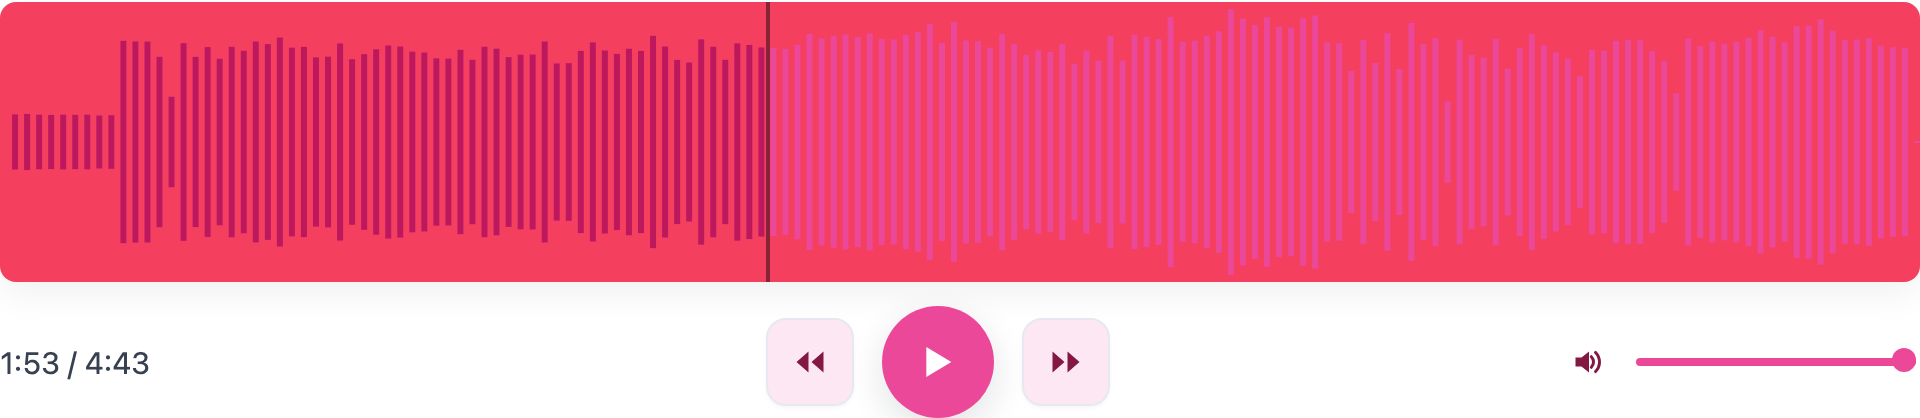
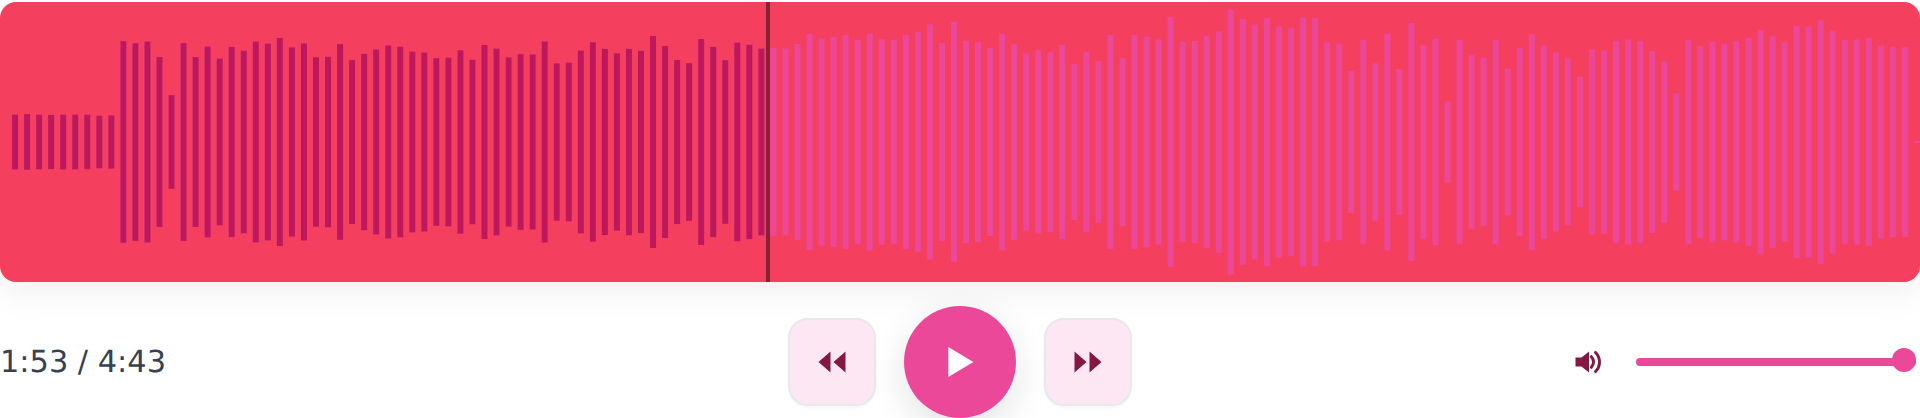
fix: center mobile playback controls and hide non-functional volume (#59)

Changed region(s): [[0.4062, 0.7153, 0.5938, 1.0], [0.0, 0.8397, 0.0938, 0.9019]]

diff --git a/e2e/mobile.spec.ts b/e2e/mobile.spec.ts
@@ -7,7 +7,9 @@ import { test, expect } from '@playwright/test';
  * and verify:
  *   - responsive layout at mobile breakpoints
  *   - touch seeking on the waveform canvas
- *   - collapsible volume control behaviour (hidden by default, shown on tap)
+ *   - playback controls are horizontally centered
+ *   - volume controls are hidden on touch-only devices (HTML5 audio volume
+ *     is read-only on iOS Safari, so the on-screen slider can't change it)
  */
 
 const MOBILE_VIEWPORT = { width: 375, height: 812 };
@@ -81,6 +83,57 @@ test.describe('Mobile layout and controls', () => {
 		const forward = page.getByRole('button', { name: /forward/i });
 		await expect(rewind).toBeVisible({ timeout: 10000 });
 		await expect(forward).toBeVisible({ timeout: 10000 });
+	});
+
+	test('play, rewind, forward buttons are horizontally centered', async ({
+		page,
+	}) => {
+		const controls = page.locator('.controls').first();
+		const center = page.locator('.controls .center').first();
+		await expect(controls).toBeVisible({ timeout: 10000 });
+
+		const controlsBox = await controls.boundingBox();
+		const centerBox = await center.boundingBox();
+		expect(controlsBox).toBeTruthy();
+		expect(centerBox).toBeTruthy();
+
+		// Midpoint of the .center group should sit within a few pixels of the
+		// midpoint of the full controls container — the grid layout guarantees
+		// this regardless of the time text or volume control widths.
+		const controlsMid = controlsBox!.x + controlsBox!.width / 2;
+		const centerMid = centerBox!.x + centerBox!.width / 2;
+		expect(Math.abs(centerMid - controlsMid)).toBeLessThanOrEqual(2);
+	});
+
+	test('center stays centered when the time string grows wider than 1fr', async ({
+		page,
+	}) => {
+		await expect(page.locator('.controls').first()).toBeVisible({
+			timeout: 10000,
+		});
+
+		// Force the time text to be wider than the natural 1fr share by bumping
+		// its font size. With plain `grid-template-columns: 1fr auto 1fr`, the
+		// fr tracks have an implicit content-based minimum, so an over-sized
+		// time string expands the left track and shifts the center group off
+		// the container midpoint. `minmax(0, 1fr)` + `min-width: 0` on the side
+		// items lets the track shrink below content size, keeping center
+		// mathematically centered.
+		await page.locator('.controls .time').first().evaluate((el) => {
+			const e = el as HTMLElement;
+			e.textContent = '99:99:99 / 99:99:99';
+			e.style.fontSize = '24px';
+			e.style.fontWeight = '700';
+		});
+
+		const controlsBox = await page.locator('.controls').first().boundingBox();
+		const centerBox = await page.locator('.controls .center').first().boundingBox();
+		expect(controlsBox).toBeTruthy();
+		expect(centerBox).toBeTruthy();
+
+		const controlsMid = controlsBox!.x + controlsBox!.width / 2;
+		const centerMid = centerBox!.x + centerBox!.width / 2;
+		expect(Math.abs(centerMid - controlsMid)).toBeLessThanOrEqual(2);
 	});
 });
 
@@ -156,59 +209,27 @@ test.describe('Touch seeking on mobile', () => {
 	});
 });
 
-test.describe('Collapsible volume control on mobile', () => {
+test.describe('Volume controls are hidden on mobile', () => {
 	test.beforeEach(async ({ page }) => {
 		await page.setViewportSize(MOBILE_VIEWPORT);
 		await page.goto('/?tab=basic');
 		await waitForWaveform(page);
 	});
 
-	test('volume slider is hidden by default on mobile', async ({ page }) => {
+	test('volume slider is hidden on mobile', async ({ page }) => {
 		const slider = page.locator('.vol-range').first();
-		// The slider is in the DOM but CSS hides it at ≤480 px
 		await expect(slider).toBeHidden({ timeout: 5000 });
 	});
 
-	test('tapping the speaker button reveals the volume popup', async ({
-		page,
-	}) => {
+	test('speaker button is hidden on mobile', async ({ page }) => {
+		// Volume can't be controlled programmatically on iOS Safari and is
+		// unreliable elsewhere on mobile, so the entire .right group is hidden
+		// on touch-only devices.
 		const speaker = page.locator('.speaker').first();
-		await expect(speaker).toBeVisible({ timeout: 10000 });
-
-		await expect(page.locator('.vol-popup')).toBeHidden();
-
-		await speaker.tap();
-
-		await expect(page.locator('.vol-popup')).toBeVisible({ timeout: 3000 });
-		await expect(page.locator('.vol-range-vertical')).toBeVisible({
-			timeout: 3000,
-		});
+		await expect(speaker).toBeHidden({ timeout: 5000 });
 	});
 
-	test('tapping the speaker button again hides the volume popup', async ({
-		page,
-	}) => {
-		const speaker = page.locator('.speaker').first();
-		await speaker.tap(); // open
-		await expect(page.locator('.vol-popup')).toBeVisible({ timeout: 3000 });
-
-		await speaker.tap(); // close
-		await expect(page.locator('.vol-popup')).toBeHidden({ timeout: 3000 });
-	});
-
-	test('vol-popup is present while speaker is expanded', async ({ page }) => {
-		const speaker = page.locator('.speaker').first();
-		await speaker.tap();
-
-		await expect(page.locator('.vol-popup')).toBeVisible({ timeout: 3000 });
-	});
-
-	test('volume slider is always visible on desktop', async ({ page }) => {
-		// Switch to a desktop-width viewport; CSS breakpoint removes the hiding rule
-		await page.setViewportSize({ width: 1280, height: 720 });
-		await page.waitForTimeout(200);
-
-		const slider = page.locator('.vol-range').first();
-		await expect(slider).toBeVisible({ timeout: 5000 });
+	test('volume popup is not present on mobile', async ({ page }) => {
+		await expect(page.locator('.vol-popup')).toHaveCount(0);
 	});
 });

diff --git a/src/styles.css b/src/styles.css
@@ -37,14 +37,20 @@
 	touch-action: none;
 }
 .controls {
-	display: flex;
+	display: grid;
+	/* minmax(0, 1fr) (instead of 1fr) lets the side tracks shrink below their
+	   content's min-size — without it, a long time string (e.g. "1:23:45 /
+	   1:23:45") would expand the left track and push the center group off the
+	   container midpoint. Combined with min-width: 0 on .left/.right, the
+	   center column stays at the true midpoint. */
+	grid-template-columns: minmax(0, 1fr) auto minmax(0, 1fr);
 	align-items: center;
-	justify-content: space-between;
 	gap: 12px;
 	margin-top: 12px;
 }
 .controls .left {
-	min-width: 160px;
+	justify-self: start;
+	min-width: 0;
 }
 .controls .time {
 	font-size: 0.95rem;
@@ -54,6 +60,7 @@
 	gap: 14px;
 	align-items: center;
 	justify-content: center;
+	justify-self: center;
 }
 .controls .ctrl {
 	background: transparent;
@@ -118,6 +125,8 @@
 	align-items: center;
 	gap: 8px;
 	position: relative;
+	justify-self: end;
+	min-width: 0;
 }
 .controls .speaker {
 	display: flex;
@@ -252,24 +261,15 @@
 	.controls .vol-range {
 		width: 100px;
 	}
-	.controls .left {
-		min-width: 120px;
-	}
 }
 
 /* Responsive controls — small containers: single compact row */
 @container (max-width: 480px) {
 	.controls {
 		gap: 6px;
-		justify-content: space-between;
-	}
-	.controls .left {
-		min-width: unset;
-		flex-shrink: 1;
 	}
 	.controls .center {
 		gap: 6px;
-		flex-shrink: 0;
 	}
 	.controls .play {
 		width: 36px;
@@ -294,6 +294,16 @@
 
 	/* Hide the horizontal volume slider; popup replaces it on narrow containers */
 	.controls .vol-range {
+		display: none;
+	}
+}
+
+/* Hide volume controls entirely on touch-only devices: HTML5 audio volume
+   is read-only on iOS Safari and unreliable on most mobile browsers, so the
+   on-screen slider can't actually change playback level. Users adjust volume
+   with hardware/OS controls instead. */
+@media (hover: none) and (pointer: coarse) {
+	.controls .right {
 		display: none;
 	}
 }
